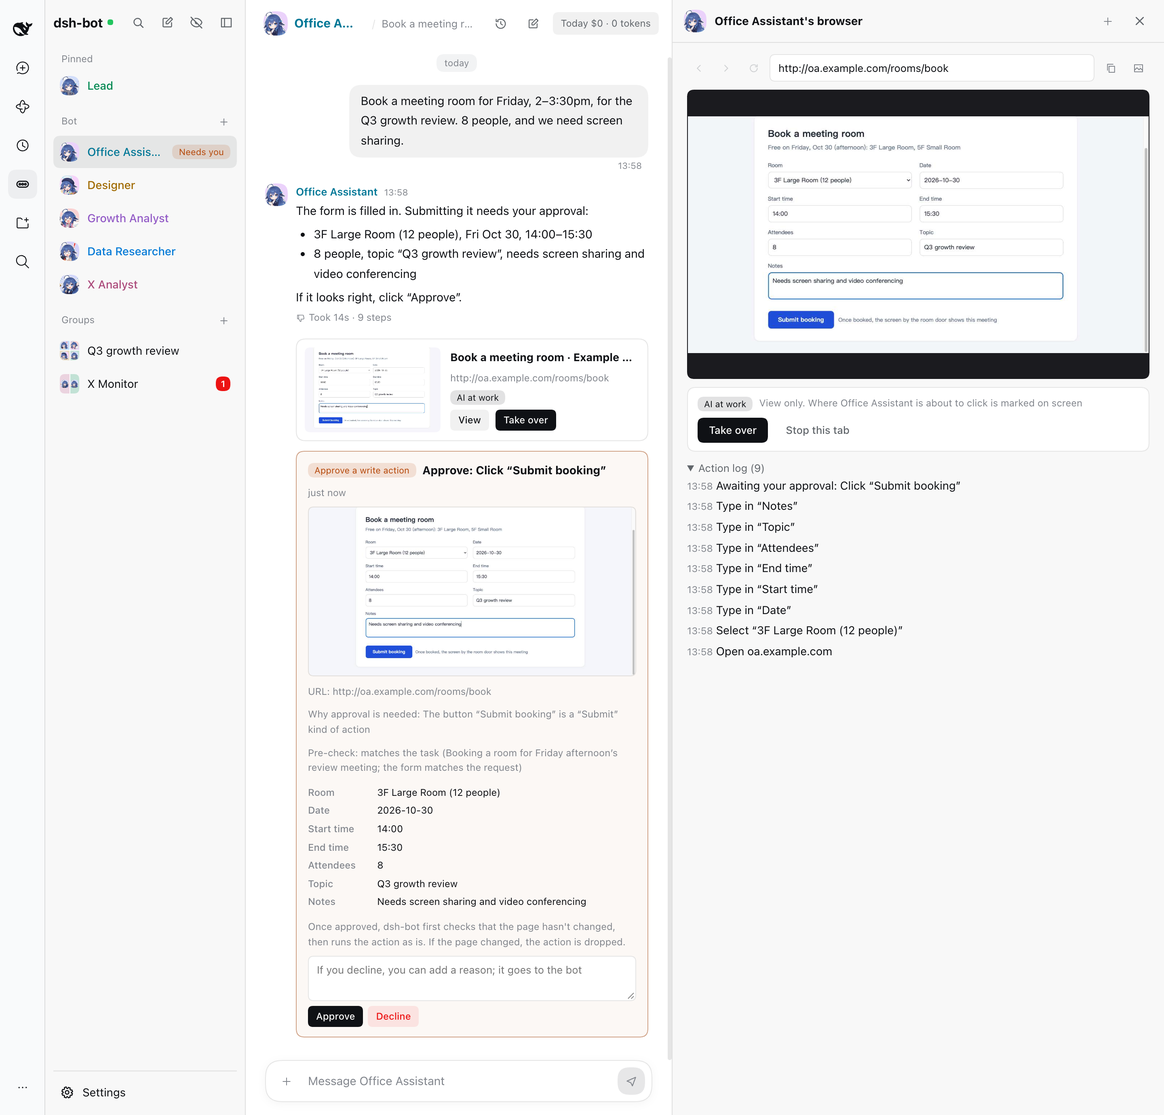
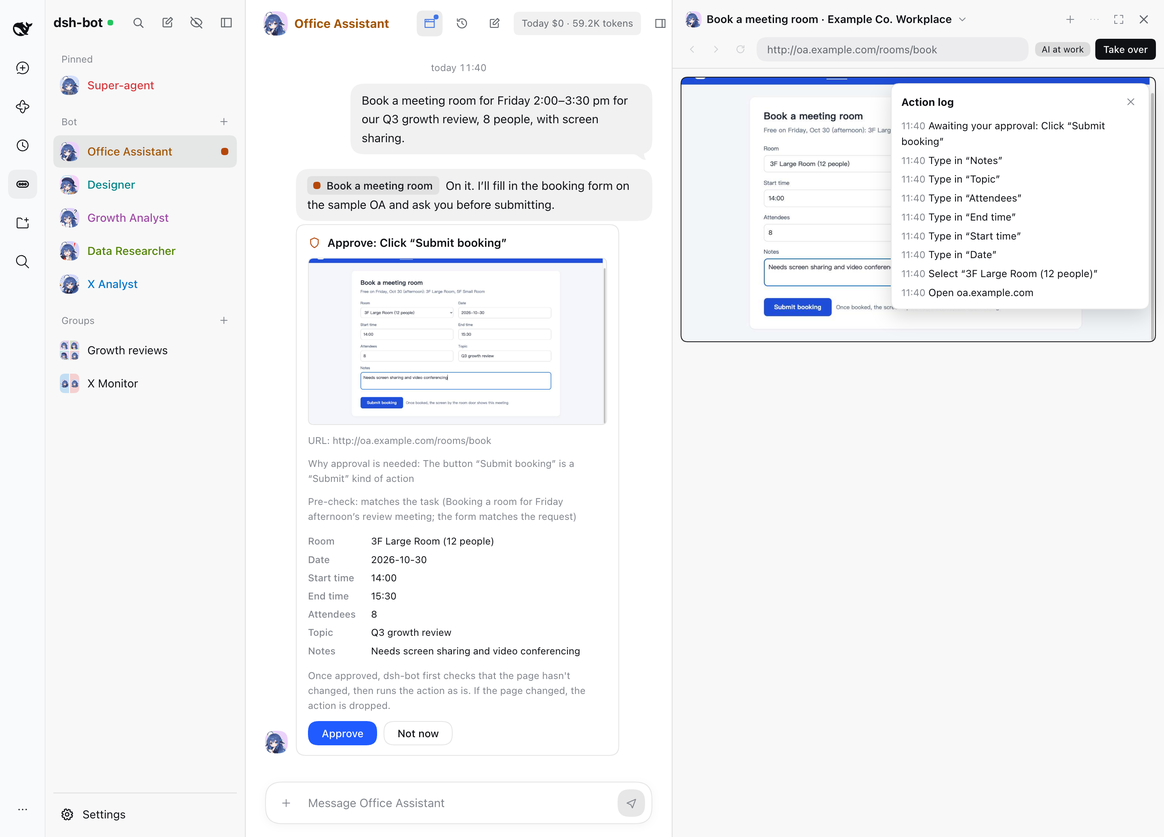
docs(readme): 中英文 README 换成现在的用法：跟 Super-agent 说、活交进对口的群、组长按分工派给成员同时做，补上对话和任务、触发器和用电脑，去掉主管、L0–L3、临时小组和任务卡这些旧说法；截图全部按现在的界面重拍，删掉 lead-chat、team-task、x-onboarding 三张

diff --git a/README.en.md b/README.en.md
@@ -6,7 +6,7 @@
 
 English | [中文](README.md)
 
-dsh-bot is a bot plugin for [DeepSeek Harness](https://github.com/deepseek-ai/deepseek-harness) (dsh for short) that turns dsh into a crew of bots. Every task is a team.
+dsh-bot is a bot plugin for [DeepSeek Harness](https://github.com/deepseek-ai/deepseek-harness) (dsh for short) that turns dsh into a crew of bots. You tell the Super-agent what you need; it hands the work to the right group, where several bots split it up.
 
 1000 free X data API calls a day
 
@@ -16,7 +16,7 @@ dsh-bot is a bot plugin for [DeepSeek Harness](https://github.com/deepseek-ai/de
 
 </div>
 
-![One group per task: the Lead forms a squad, members split the work, and the team lead reviews and delivers](docs/images/en/hero.png)
+![The “Growth reviews” group: the members' results, the Designer's dashboard and the lead's combined answer are all in the group; on the right are the group's details: what it handles, members and lead, and activity](docs/images/en/hero.png)
 
 <p align="center"><sub>Screenshots show sample data from a demo.</sub></p>
 
@@ -26,50 +26,64 @@ dsh-bot is a bot plugin for [DeepSeek Harness](https://github.com/deepseek-ai/de
 
 [aibot](https://aibot.fans/) is set up automatically on first launch: no sign-up, no sign-in, no key to paste. Bots can look up X (Twitter) users, tweets, search and trends right away, with **1000 free calls a day** (each read counts once; the quota resets at 8:00 Beijing time, 00:00 UTC). You can also **monitor 40 accounts for free**: monitoring doesn't use up calls, and new posts arrive in real time in the “X Monitor” group.
 
-### Every task is a team
+### Tell the Super-agent; the work happens in groups
 
-You only talk to the Lead. It handles simple things itself; for bigger ones it forms a squad on the spot: it splits the work into subtasks, gives each one to the bot with the right skills, and runs independent parts in parallel. Each task gets its own group, and the task card shows live who is doing what. The team lead reviews each part, sends back what doesn't pass, merges the results and hands you a delivery card: key points, files, assumptions and open questions.
+You only tell the Super-agent what you need. If a few sentences will do, it answers on the spot; if there's work to do, it hands it to the right group: the group's lead takes it and splits it among the members by what each one handles, independent parts run at the same time, and every result is posted in the group. If no group fits, the Super-agent creates one for the topic and writes down what it handles, so similar work goes there next time. When the work is done, the Super-agent tells you the conclusion in the main chat.
 
 ## Features
 
-### Every task is a team
+### Tell the Super-agent; the work happens in groups
 
-Tell the Lead what you need and it decides how to handle it: do it itself (L0), hand it to one bot (L1), form an ad-hoc squad with the Lead as team lead (L2), or hand it to a standing team run by its team lead (L3).
+![Main chat: you ask the Super-agent for a growth review; it creates the “Growth reviews” group, hands the work in, and comes back with the conclusion](docs/images/en/super-agent.png)
 
-![Tell the Lead what you need, and it forms a squad on the spot](docs/images/en/lead-chat.png)
+- The main chat is just you and the Super-agent. Small talk, progress questions and things it remembers get an answer on the spot. For research, running commands or writing something long, it opens a task: work it can do itself happens in the main chat, and work for other bots goes into a group.
+- Each group has one line saying what it handles. The Super-agent uses it to pick the right group; if none fits, it creates a new group for the topic, makes the responsible bot its lead and writes down what it handles. Name a group and the work goes there; a bot you ask for that isn't in the group is added first.
+- In a group, messages that don't @ anyone go to the lead first: it answers what takes a few sentences and hands the rest to members by what each one handles. A member you @ takes it directly. The Super-agent only speaks in a group when it's @-mentioned or quoted, and handles organizational things such as adding members, creating bots and changing the lead.
+- Members work at the same time and post their results in the group; the lead reviews each one and merges them into one complete answer, and the Super-agent then tells you the conclusion in the main chat.
+- Group details are on the right, open by default on wide screens: what the group handles (editable), members and lead (changeable), and activity (who is working on what, the progress they logged, and who handed in what).
+- Routines, the daily brief and scheduled wake-ups are all triggers on tasks: at a time (once, or repeating on a cron schedule), when another task finishes, or when a watched web page changes, the task wakes up and carries on. Routines live in groups too, and each run's results are posted there.
 
-- Plans are checked before work starts. Who does what, the assumptions, the task conventions and why the work was split this way go into a kickoff note posted in the task's group.
-- Subtasks are scheduled by their dependencies, and independent ones run at the same time. The task card updates in place: stage, a segmented progress bar, what each member is doing right now, and cost.
-- The team lead reviews each part and sends back what doesn't pass. When a member gets stuck, the work gets a new approach, a different bot or smaller pieces. When requirements change, a new version of the plan comes out and only the affected parts are redone.
-- Once everything passes, the results are merged and the task card turns into a delivery card: key points, files (click to preview), assumptions and open questions. At any point you can pause, stop or resume the task, or talk to it directly.
+![Working in parallel in the group: the Data Researcher and the Growth Analyst have posted their results, and the Designer's line shows what it is laying out](docs/images/en/group.png)
 
-![Task card: two members have delivered, the team lead is reviewing, and the Designer is building the dashboard](docs/images/en/team-task.png)
+### Chats and tasks
+
+- Chats use bubbles, yours on the right and bots' on the left. While a bot is answering, a gray bubble at the bottom of the chat shows the step it's on; when several bots answer at once, each gets its own.
+- Things waiting for you are cards: on a question card, click an option to answer, write your own answer or skip; an approval card spells out what will happen, and you choose Approve or Not now.
+- A task opened in the main chat comes with a task card. Click it to see the task details on the right: overview, progress, brief, result and subtasks; unfinished tasks can be paused, resumed or stopped.
+- “Stop answering” stops what's going on in this chat: a task stops only this run and stays open, and picks up again when you say something or when its time comes.
+- Each row in the left list shows a status on the right: a spinner while working, an orange dot when waiting for you, a red cross when it failed, and a green check when it's done but not yet seen. Each section is sorted by latest message; dragging is only for pinning and moving into folders.
+- The right side of the top bar shows today's usage: for this bot in a direct chat, for this group in a group; click it for a breakdown. Drag the right edge of the chat area to change the chat width; double-click to go back to the default.
 
 ### 1000 free X data API calls a day
 
 - [aibot](https://aibot.fans/) is set up automatically on first launch, with no sign-up or sign-in. The install code and key are stored only in your local `pod.db`.
 - Bots can look up X (Twitter) users, tweets, search and trends: 1000 free calls a day, each read counts once, and the quota resets at 8:00 Beijing time (00:00 UTC).
 - Account monitoring: 40 accounts for free, and monitoring doesn't use up calls. New posts arrive in real time in the “X Monitor” group with a notification, and anything missed while offline is fetched automatically. To watch someone, tell the X Analyst in that group “monitor @handle”.
-- Settings → General shows how many calls are left today and how many accounts are monitored, and lets you turn the whole thing off. Running out of quota, being rate-limited and a disabled device each come with an explanation.
+- Settings → Usage shows how many calls are left today and how many accounts are monitored, and lets you turn the whole thing off. Running out of quota, being rate-limited and a disabled device each come with an explanation.
 - Quotas and [rules](https://aibot.fans/x-api/rest) are set by [aibot](https://aibot.fans/).
-- Bots can also use your own X account: once you sign in to X in dsh-bot's browser, they can look up posts, users, timelines, search, follower lists, notifications, bookmarks and DMs, read encrypted chats, and post, reply, quote, delete posts, like, repost, bookmark, pin, follow, block and mute. Posts can carry images, GIFs and video (up to 4 files from the workspace). By default nothing that changes anything is sent until you have seen the endpoint, parameters and files on an approval card and approved it; Settings → General lets you skip approval (for common actions such as posting, liking and following only) or turn writes off.
+- Bots can also use your own X account: once you sign in to X in dsh-bot's browser, they can look up posts, users, timelines, search, follower lists, notifications, bookmarks and DMs, read encrypted chats, and post, reply, quote, delete posts, like, repost, bookmark, pin, follow, block and mute. Posts can carry images, GIFs and video (up to 4 files from the workspace). Anything that changes something follows the x.com rule in the browser's site rules: with no rule, nothing is sent until you have seen the endpoint, parameters and files on an approval card and approved it; in Settings → Browser you can set x.com to no approval needed (for common actions such as posting, liking and following only), read-only or blocked.
 
-<p>
-<img src="docs/images/en/x-onboarding.png" width="49%" alt="First-run guide: X data and monitoring are ready">
-<img src="docs/images/en/x-settings.png" width="49%" alt="Calls left today and monitored accounts in Settings">
-</p>
+![Settings → Usage: calls left today, the X data and monitoring switch, and how many accounts are monitored](docs/images/en/x-settings.png)
 
 ### Shared browser
 
 Bots can use the web like a person: open pages, read them, click, fill in forms, upload files, take screenshots and pull out the main text. All bots share one headless Chrome and one set of logins, so once a site is signed in, every bot can use it. Chrome runs with dsh-bot's own profile and never touches the one you use every day.
 
-- When a bot opens a page, a browser card shows up in the chat. Click “View” to watch the live screen and action log on the right; click “Take over” to drive it yourself, then hand it back to the bot. For sites that need a login, take over and sign in yourself.
+- While a bot is using the browser, a browser button appears in the chat's top bar. Open it to watch the live screen on the right; the “…” menu has the action log and closes tabs. Click “Take over” to drive it yourself, then hand it back to the bot. For sites that need a login, take over and sign in yourself.
 - Write actions such as submit, send, delete, buy and confirm need your approval. The approval card shows a screenshot of the page, the URL and what was filled in, plus a pre-check that judges whether this step is what you asked for, so page content can't lead a bot astray. Once you approve, dsh-bot first confirms the page hasn't changed, then carries out the action exactly as shown.
 - Bots never fill in passwords, verification codes or card numbers. If you enter them while you've taken over, bots only see that the field is filled, both on the page and on approval cards.
 - Local and LAN addresses are blocked by default; add the ones you really need to the allowlist in Settings → Browser. Concurrency and request rate are limited per site to avoid tripping anti-bot checks.
-- Routines that watch web pages, and exporting pages to PDF and long images, use it too.
+- Triggers that watch web pages, and exporting pages to PDF and long images, use it too.
 
 ![The Office Assistant books a meeting room on a sample OA: the form is filled in and waits for your approval before submitting; the live screen and action log are on the right](docs/images/en/browser.png)
+
+### Computer use (macOS 14 or later)
+
+Once you turn it on in Settings → Computer use, bots working on tasks can use other apps on this Mac in the background: read windows, click buttons and type, without taking over your mouse and keyboard.
+
+- Each task asks you before it uses an app for the first time; browsers, terminals, System Settings and password apps are off-limits. Turning it off revokes every permission.
+- While a bot is using the computer, a computer button appears in the chat's top bar. Open it to see the app windows the bot is using; you can take over and hand back at any time.
+- The helper needs the Accessibility and Screen Recording permissions in System Settings; the settings page has a button to grant them and a check. macOS 14 or later only.
 
 ### Pages (Grok Pages)
 
@@ -81,23 +95,24 @@ Bots can turn reports, dashboards, trackers, slides, posters, prototypes and arc
 
 ![A dashboard made by the Designer](docs/images/en/page.png)
 
-### 30+ built-in character icons
+### 30 built-in character icons
 
 - 30 whale-girl icons, matched automatically by name and role: a data researcher, a designer and an analyst each get their own look.
 - Each name gets a random color that stays readable on light and dark backgrounds, used in the sidebar, groups and messages.
-- Bot details let you change every setting: name, role, avatar, capability tags, role card, persona, model, thinking level and tool profile. You can also see the bot's memory, skills, growth log and version history.
+- Bot details let you change the name, avatar, tags, role card, persona, model, thinking level and tool profile. You can also see the bot's activity, memory, skills, growth log and version history.
 
-![Bot details](docs/images/en/bot.png)
+![The Designer's details: activity, role card and persona](docs/images/en/bot.png)
 
 ### And more
 
-- **Autonomous by default**: bots make their own calls and keep going. They only come to you in four cases: a login or verification code is needed, an irreversible external action is next, a safety rule blocks something, or there's an ambiguity with no sensible default. Whatever can be worked around is worked around first, and the delivery lists the assumptions and open questions.
-- **Groups**: @ a member in a group to call on them directly; bots call on each other too. @names in messages show the bot's icon; click one to see its details.
+- **Autonomous by default**: bots make their own calls and keep going. They only come to you in four cases: a login or verification code is needed, an irreversible external action is next, a safety rule blocks something, or there's an ambiguity with no sensible default that would change the result a lot. Missing details are filled in with sensible defaults, and the assumptions are written down.
+- **@ mentions**: @ a member in a group to call on them directly; bots call on each other too. @names in messages show the bot's icon; click one to see its details.
+- **How bots work**: Settings → How bots work lets you pause processing (starting work and sending messages wait, and messages are still recorded), set how much autonomy bots get, and limit how many tasks run at once; however many tasks are running, what you say never waits in line.
 - **Memory and search**: your profile, bot experience, team conventions, group conventions and group memory. Say “remember …” to save something directly; key points are also picked out of conversations automatically. Global search uses a character-level index built for Chinese text.
-- **Long conversations**: when the context nears its soft limit, the conversation continues in a new segment, bridged by a handover note.
-- **Routines and notifications**: scheduled routines (cron, catch-up runs, off-peak scheduling), web page watching (no model call when nothing changed), a daily brief, a notification center with browser notifications, and quiet hours.
-- **Self-improvement**: thumbs up and down, your corrections, the team lead's reviews and edits after delivery all count as feedback. Task retrospectives turn into experience and skills, personas and reasoning levels are tuned from feedback, changes that make things worse are rolled back automatically, and a weekly “This week's changes” card sums it up. Undo a bad adjustment in the growth log, or go back to any earlier setup in version history. Only skills that include scripts need your approval.
-- **Safety**: only you can give instructions; a bot gets only the permissions every applicable rule allows; a task that has read web pages is treated as tainted, and all its write actions need approval; per-site rules and a default blocklist; local and LAN addresses blocked by default; checks on data leaving your machine; secrets masked; terminal and browser write actions disabled while dsh web is open to the network; one-click stop; an append-only audit log.
+- **Long conversations**: when the context reaches the rollover length (Settings → Model), the conversation continues in a new segment, bridged by a handover note; tasks also check before starting work.
+- **Automations and notifications**: Settings → Automations lists the daily brief and every bot's and group's automations, where you can turn them on and off, filter and create new ones. Runs missed while dsh web was closed catch up once the next time it opens; with DeepSeek models, runs can move to off-peak hours; watching a web page makes no model call when nothing changed. There's also a notification center, browser notifications and quiet hours.
+- **Self-improvement**: thumbs up and down, your corrections, the lead's reviews and edits to handed-in files all count as feedback. Task retrospectives turn into experience and skills, personas and reasoning levels are tuned from feedback, changes that make things worse are rolled back automatically, and a weekly “This week's changes” card sums it up. Undo a bad adjustment in the growth log, or go back to any earlier setup in version history. Only skills that include scripts need your approval.
+- **Safety**: only you can give instructions; a bot gets only the permissions every applicable rule allows; a task that has read web pages is treated as tainted, and all its write actions need approval; per-site rules and a default blocklist; local and LAN addresses blocked by default; checks on data leaving your machine; secrets masked; terminal and browser write actions disabled while dsh web is open to the network; one click to stop all tasks; an append-only audit log.
 - **Dark mode**: both the app and pages have dark versions.
 - **English and Chinese**: Settings → General → Language. It follows dsh's display language by default. In English, the interface, system messages, default bots and bot replies are all in English.
 
@@ -110,7 +125,7 @@ Bots can turn reports, dashboards, trackers, slides, posters, prototypes and arc
 
 ## Install
 
-Requires dsh 0.2.1-rc.2 or later (below 0.3.0), Node 24 and pnpm (`dsh plugin` installs plugins with pnpm). The shared browser needs Chrome on your machine (Edge, Chromium or Brave work too).
+Requires dsh 0.2.1-rc.2 or later (below 0.3.0), Node 24 and pnpm (`dsh plugin` installs plugins with pnpm). The shared browser needs Chrome on your machine (Edge, Chromium or Brave work too); computer use needs macOS 14 or later.
 
 Install it into the dsh web you normally use (the `web` profile):
 
@@ -124,13 +139,13 @@ Then restart dsh web (stop it first if it's already running) and open the addres
 dsh web
 ```
 
-“dsh-bot” appears in the sidebar. The first time you open it, a short guide walks you through it; after that, just tell the Lead what you need. Bots use the models configured in dsh: change the default model in dsh-bot's Settings → Model, or pick one per bot in its details. The language follows dsh's display language; to change it, go to Settings → General → Language.
+“dsh-bot” appears in the sidebar. The first time you open it, a short guide walks you through it; after that, just tell the Super-agent what you need in the main chat. Bots use the models configured in dsh: change the default model in dsh-bot's Settings → Model, or pick one per bot in its details. The language follows dsh's display language; to change it, go to Settings → General → Language.
 
 To install from source or work on the code, see the [development guide](docs/DEVELOPMENT.md) (Chinese).
 
 ## Upgrade
 
-When a new version is out, “x.y.z available” appears next to Settings at the bottom of the dsh-bot sidebar; click it to see what changed in each version (release notes are written in Chinese for now). If you installed from npm, just click “Update to x.y.z”: dsh-bot asks dsh's plugin manager to remove the old version and install the new one. Bots, conversations and tasks live in the data directory and aren't affected.
+When a new version is out, “x.y.z available” appears next to Settings at the bottom of the dsh-bot sidebar; click it to see what changed in each version. If you installed from npm, just click “Update to x.y.z”: dsh-bot asks dsh's plugin manager to remove the old version and install the new one. Bots, conversations and tasks live in the data directory and aren't affected.
 
 - With hot reload on in dsh web (the default), the new version is running as soon as it's installed, with no restart, and the page returns to dsh-bot by itself. With hot reload off, restart dsh web after the install to switch over; until then, a banner at the top of the page reminds you.
 - If the new version fails to install (for example, with no network), the previous version is reinstalled automatically.
@@ -175,6 +190,7 @@ If `DSH_HOME` is set, `~/.dsh` becomes `$DSH_HOME`.
 
 - Everything stays local: dsh-bot runs inside the dsh web process, data lives only in the directories above, and model requests go to the model services configured in dsh.
 - X account: when a bot uses the X account you signed in to in dsh-bot's browser, dsh-bot opens an x.com tab in the shared browser that isn't shown in the panel, and closes it after 10 idle minutes. The sign-in state is stored in `~/.dsh/pod/browser/`, like any other site's.
+- Computer use: the helper runs only on this computer, and dsh-bot talks to it over a local socket.
 - Update checks: one minute after startup and every 6 hours after that, dsh-bot asks the official npm registry (`registry.npmjs.org`, or the China mirror `registry.npmmirror.com` if that can't be reached) which versions of `@aibot_fans/dsh-bot` exist. The request contains only the package name. To turn this off, go to Settings → Advanced and switch off “Check for new versions automatically”.
 
 ## Development
@@ -187,12 +203,14 @@ The [development guide](docs/DEVELOPMENT.md) (Chinese) covers the directory layo
 - The built-in icons are whale-girl images based on the character from [lmy414/ai-chan-sheets](https://github.com/lmy414/ai-chan-sheets), originally by ZipZipPipe.
 - X data and monitoring are provided by [aibot](https://aibot.fans/).
 - [aibot-x-post](https://www.npmjs.com/package/aibot-x-post), which dsh-bot uses to read and write X, contains code adapted from [fa0311/twitter_api_safe_relay](https://github.com/fa0311/twitter_api_safe_relay) (MIT). X responses are filtered with [jq](https://github.com/jqlang/jq) from [jq-wasm](https://github.com/owenthereal/jq-wasm) (MIT).
+- The computer use helper is built unmodified from the macOS source of [Comma](https://github.com/AFK-surf/Comma).
 
 ## License
 
 - The code is open source under the [Apache License 2.0](LICENSE), provided “as is”, without warranty of any kind.
 - The whale-girl icons (`packages/runtime/assets/bot-icons/`) are adapted from [lmy414/ai-chan-sheets](https://github.com/lmy414/ai-chan-sheets) and licensed under [CC BY-NC-SA 4.0](https://creativecommons.org/licenses/by-nc-sa/4.0/), not the Apache License 2.0: non-commercial use only, with attribution, and adaptations must be shared under the same license. The screenshots in `docs/images/` (including `docs/images/en/`) contain these icons and are under the same license.
 - [aibot-x-post](https://www.npmjs.com/package/aibot-x-post), bundled in the host plugin to read and write X, is not open source and not under the Apache License 2.0; it may only be used as part of dsh-bot.
+- The computer use helper (source in `vendor/comma-computer-use/`) comes from Comma and is licensed under the [GNU AGPL v3.0](vendor/comma-computer-use/LICENSE), not the Apache License 2.0; it is a separate program, and dsh-bot only talks to it over a local socket.
 - To use dsh-bot commercially, replace these icons first. See [NOTICE](NOTICE) for third-party material.
 
 ## Disclaimer
@@ -200,5 +218,5 @@ The [development guide](docs/DEVELOPMENT.md) (Chinese) covers the directory layo
 - dsh-bot is an independent community project. It is **not an official DeepSeek product** and is not endorsed or sponsored by DeepSeek. DeepSeek, DeepSeek Harness, X, Twitter, Grok, Chrome and others are names or trademarks of their respective owners, mentioned here only to describe what dsh-bot works with.
 - When using X data and monitoring, follow [aibot](https://aibot.fans/)'s [rules](https://aibot.fans/x-api/rest), X's rules and local laws. Don't use them to harass or track people.
 - You are responsible for what bots do with your X account (posting, liking, following, reading DMs…). X frowns on frequent automated actions: check the endpoint and parameters before approving, and don't spam.
-- The shared browser operates web pages on your computer on your behalf, and you are responsible for what bots do on websites. Follow each site's terms of use, and read the approval card carefully before approving a write action.
+- The shared browser operates web pages on your computer on your behalf, and with computer use bots operate other apps on your Mac; you are responsible for what bots do. Follow each site's terms of use, and read the approval card carefully before approving a write action.
 - Bots use the models you configured in dsh and spend your own quota. They read and write files in the workspace and run commands as you ask. Their answers and deliverables are generated by models and may be wrong; verify anything important yourself.
